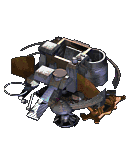
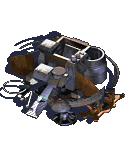
UI 고민중
버튼식으로 어떻게 명령을 내릴것인지 고민중(서버를 거처서 보내야함)

Changed region(s): [[0.0, 0.1875, 1.0, 0.8125]]

diff --git a/Source/MainScene.cpp b/Source/MainScene.cpp
@@ -144,7 +144,7 @@ void MainScene::onMouseDown(Event* event)
             data.ClientID = TcpClient::get()->GetID();
             data.input    = 'r';
             data.pos      = mousePos - (ax::Vec2(0, 210));
-            TcpClient::get()->SendActorMessage(data);
+            TcpClient::get()->SendMessageToServer(data);
         }
     }
     else if (e->getMouseButton() == EventMouse::MouseButton::BUTTON_LEFT)
@@ -164,6 +164,7 @@ void MainScene::onMouseUp(Event* event)
     if (e->getMouseButton() == EventMouse::MouseButton::BUTTON_LEFT)
     {
         mCursor->CursorUp();
+        mPlayer->Clear();
     }
 
 }
@@ -225,7 +226,7 @@ void MainScene::onKeyPressed(EventKeyboard::KeyCode code, Event* event)
                 data.ClientID = TcpClient::get()->GetID();
                 data.pos      = actor->GetPosition();
                 data.input    = 77;
-                TcpClient::get()->SendActorMessage(data);
+                TcpClient::get()->SendMessageToServer(data);
                
             }
         }
@@ -249,7 +250,7 @@ void MainScene::onKeyPressed(EventKeyboard::KeyCode code, Event* event)
         data.ClientID = TcpClient::get()->GetID();
         data.pos      = Vec2(500, 500);
         data.input    = 77;
-        TcpClient::get()->SendActorMessage(data);
+        TcpClient::get()->SendMessageToServer(data);
     } break;
 
     case ax::EventKeyboard::KeyCode::KEY_RIGHT_ARROW:
@@ -258,7 +259,7 @@ void MainScene::onKeyPressed(EventKeyboard::KeyCode code, Event* event)
         data.ClientID = TcpClient::get()->GetID();
         data.pos      = Vec2(16, 0);
         data.input    = 6;
-        TcpClient::get()->SendActorMessage(data);
+        TcpClient::get()->SendMessageToServer(data);
     } break;
 
     case ax::EventKeyboard::KeyCode::KEY_LEFT_ARROW:
@@ -267,7 +268,7 @@ void MainScene::onKeyPressed(EventKeyboard::KeyCode code, Event* event)
         data.ClientID = TcpClient::get()->GetID();
         data.pos      = Vec2(-16,0);
         data.input    = 4;
-        TcpClient::get()->SendActorMessage(data);
+        TcpClient::get()->SendMessageToServer(data);
     } break;
 
 
@@ -300,7 +301,7 @@ bool MainScene::onContactBegin(ax::PhysicsContact& contact)
         }
         return false;
     }
-    else if (B->getName() == "CursorCheckNode")
+    else if (B->getName() == "CursorCheckNode" )
     {
         auto aRoot         = A->getParent();
         UserData* userData = (UserData*)aRoot->getUserData();
@@ -404,8 +405,9 @@ void MainScene::update(float delta)
     
     // 마우스가 화면 끝으로 갔을 때 화면 전체를 옮긴다.
     // 해당기능은 마우스의 위치백터만큼 화면에 더해야한다.
-    ScreenMove(delta);
+    //ScreenMove(delta);
 
+    mCursor->update(delta);
 
     switch (_gameState)
     {
@@ -529,8 +531,22 @@ void MainScene::Decording()
                     actor->mMoveComp->SetTarget(actor->GetRoot()->getPosition() + data.pos);
                 }
             }
-        }
-            break;
+        } break;
+
+        case 10:
+        {
+            if (data.ClientID == TcpClient::get()->GetID())
+            {
+
+                /*Actor* actor = SpawnCommandCenter(mMapLayer, data);
+                mCursor->ac  = actor;*/
+                mCursor->sp = ax::Sprite::create("123.png"sv);
+                mCursor->mRoot->addChild(mCursor->sp);
+
+
+            }
+        }  break;
+
         case 77:
         case 78:
         case 79:

diff --git a/Source/UILayer.cpp b/Source/UILayer.cpp
@@ -1,6 +1,7 @@
 #include "pch.h"
 #include "UILayer.h"
-
+#include "World.h"
+#include "TcpClient.h"
 
 
 bool UILayer::init()
@@ -36,6 +37,20 @@ void UILayer::SetUI(PlayerRace race)
         mPopIcon = ax::Sprite::create("TPopIcon.png"sv);
         mPopIcon->setPosition(ax::Vec2(500, 450));
         addChild(mPopIcon);
+
+
+        auto before = ax::Sprite::create("Attack_Release.png"sv);
+        auto after  = ax::Sprite::create("Attack_Down.png"sv);
+
+        auto item = ax::MenuItemImage::create("Attack_Release.png", "Attack_Down.png", AX_CALLBACK_0(UILayer::build, this));
+
+        item->setScale(2.0f);
+        item->setPosition(ax::Vec2(410,-270));
+
+        auto menu = ax::Menu::create(item, NULL);
+        menu->setPosition(ax::Vec2::ZERO);
+        this->addChild(menu, 1);
+
 
 
     } break;
@@ -85,4 +100,13 @@ void UILayer::SetUI(PlayerRace race)
     
 
     setPosition(ax::Vec2(640, 480));
+}
+
+void UILayer::build()
+{
+    PK_Data data;
+    data.ClientID = TcpClient::get()->GetID();
+    data.input    = 10;
+    data.pos      = ax::Vec2::ZERO;
+    TcpClient::get()->SendMessageToServer(data);
 }

diff --git a/Source/Cursor.h b/Source/Cursor.h
@@ -1,5 +1,19 @@
 #pragma once
 #include "PreDefines.h"
+#include "Actor.h"
+
+enum class CursorState
+{
+    None,
+    Idle,
+    Drag,
+    Move,
+    Click,
+    BluePrint,
+
+};
+
+
 
 class Cursor 
 {
@@ -12,6 +26,7 @@ public:
     ax::Vec2 GetPosition();
     ax::DrawNode* GetDrawNode();
 
+    void update(float delta);
 
     void CursorUp();
 
@@ -25,8 +40,17 @@ public:
 public:
     Ptr<ax::Node> mRoot;
 
+
+    Actor* ac = nullptr;
+    ax::Sprite* sp = nullptr;
+
     ax::Vec2 sPos;
     ax::Vec2 ePos;
 
     bool isDraging = false;
+
+
+    CursorState mState = CursorState::None;
+
+
 };

diff --git a/Source/ActorMessage.h b/Source/ActorMessage.h
@@ -1,0 +1,25 @@
+#pragma once
+
+class Actor;
+class Player;
+
+struct ActorMessage
+{
+    enum 
+    {
+        MoveToTarget,
+        Contacted,
+        Separate,
+        Damaged,
+        MoveClick,
+        GameClick,
+        Attack,
+        Build,
+    } msgType;
+
+    Actor* sender;
+
+    void* data = nullptr;
+};
+
+void SendActorMessage(Actor* r, ActorMessage msg);

diff --git a/Source/UILayer.h b/Source/UILayer.h
@@ -11,7 +11,7 @@ public:
     virtual bool init() override;
 
     void SetUI(PlayerRace race);
-
+    void build();
 
 
 public:
@@ -20,7 +20,8 @@ public:
     ax::Sprite* mGasIcon;
     ax::Sprite* mPopIcon;
 
-    ax::MenuItemSprite mAllActionIcon[9];
+
+    ax::MenuItemImage mAllActionIcon[9];
 
     Player* mPlayer = nullptr;
 };

diff --git a/Source/ActorMessage.cpp b/Source/ActorMessage.cpp
@@ -1,0 +1,15 @@
+#include "pch.h"
+#include "ActorMessage.h"
+
+
+void SendActorMessage(Actor* r, ActorMessage msg)
+{
+    switch (msg.msgType)
+    {
+    case ActorMessage::Build:
+
+        break;
+    default:
+        break;
+    }
+}

diff --git a/Source/Cursor.cpp b/Source/Cursor.cpp
@@ -62,6 +62,14 @@ ax::DrawNode* Cursor::GetDrawNode()
     return nullptr;
 }
 
+void Cursor::update(float delta)
+{
+    if (ac != nullptr)
+    {
+        ac->SetPosition(mRoot->getPosition());
+    }
+}
+
 void Cursor::CursorUp()
 {
 

diff --git a/Source/TcpClient.h b/Source/TcpClient.h
@@ -19,7 +19,7 @@ public:
     static TcpClient* get();
 
 
-    bool SendActorMessage(PK_Data data);
+    bool SendMessageToServer(PK_Data data);
     bool RecvData();
     bool Select(struct timeval timeout);
 

diff --git a/Source/TcpClient.cpp b/Source/TcpClient.cpp
@@ -66,7 +66,7 @@ TcpClient* TcpClient::get()
 
 
 
-bool TcpClient::SendActorMessage(PK_Data data)
+bool TcpClient::SendMessageToServer(PK_Data data)
 {
     char buf[1024] = {0};
     int bufLen     = 0;

diff --git a/Source/SCVComp.cpp b/Source/SCVComp.cpp
@@ -30,7 +30,7 @@ void SCVComp::Repair()
 
 }
 
-void SCVComp::Building()
+void SCVComp::Building(ax::Vec2 pos)
 {
     PK_Data data;
     data.ClientID = mActor->mID;

diff --git a/Source/SCVComp.h b/Source/SCVComp.h
@@ -11,7 +11,7 @@ public:
     virtual void update(float delta) override;
 
     void Repair();
-    void Building();
+    void Building(ax::Vec2 pos);
 
 
 

diff --git a/Source/pch.h b/Source/pch.h
@@ -3,3 +3,6 @@
 #include "axmol.h"
 #include <vector>
 #include "SmartPtr.h"
+
+
+
